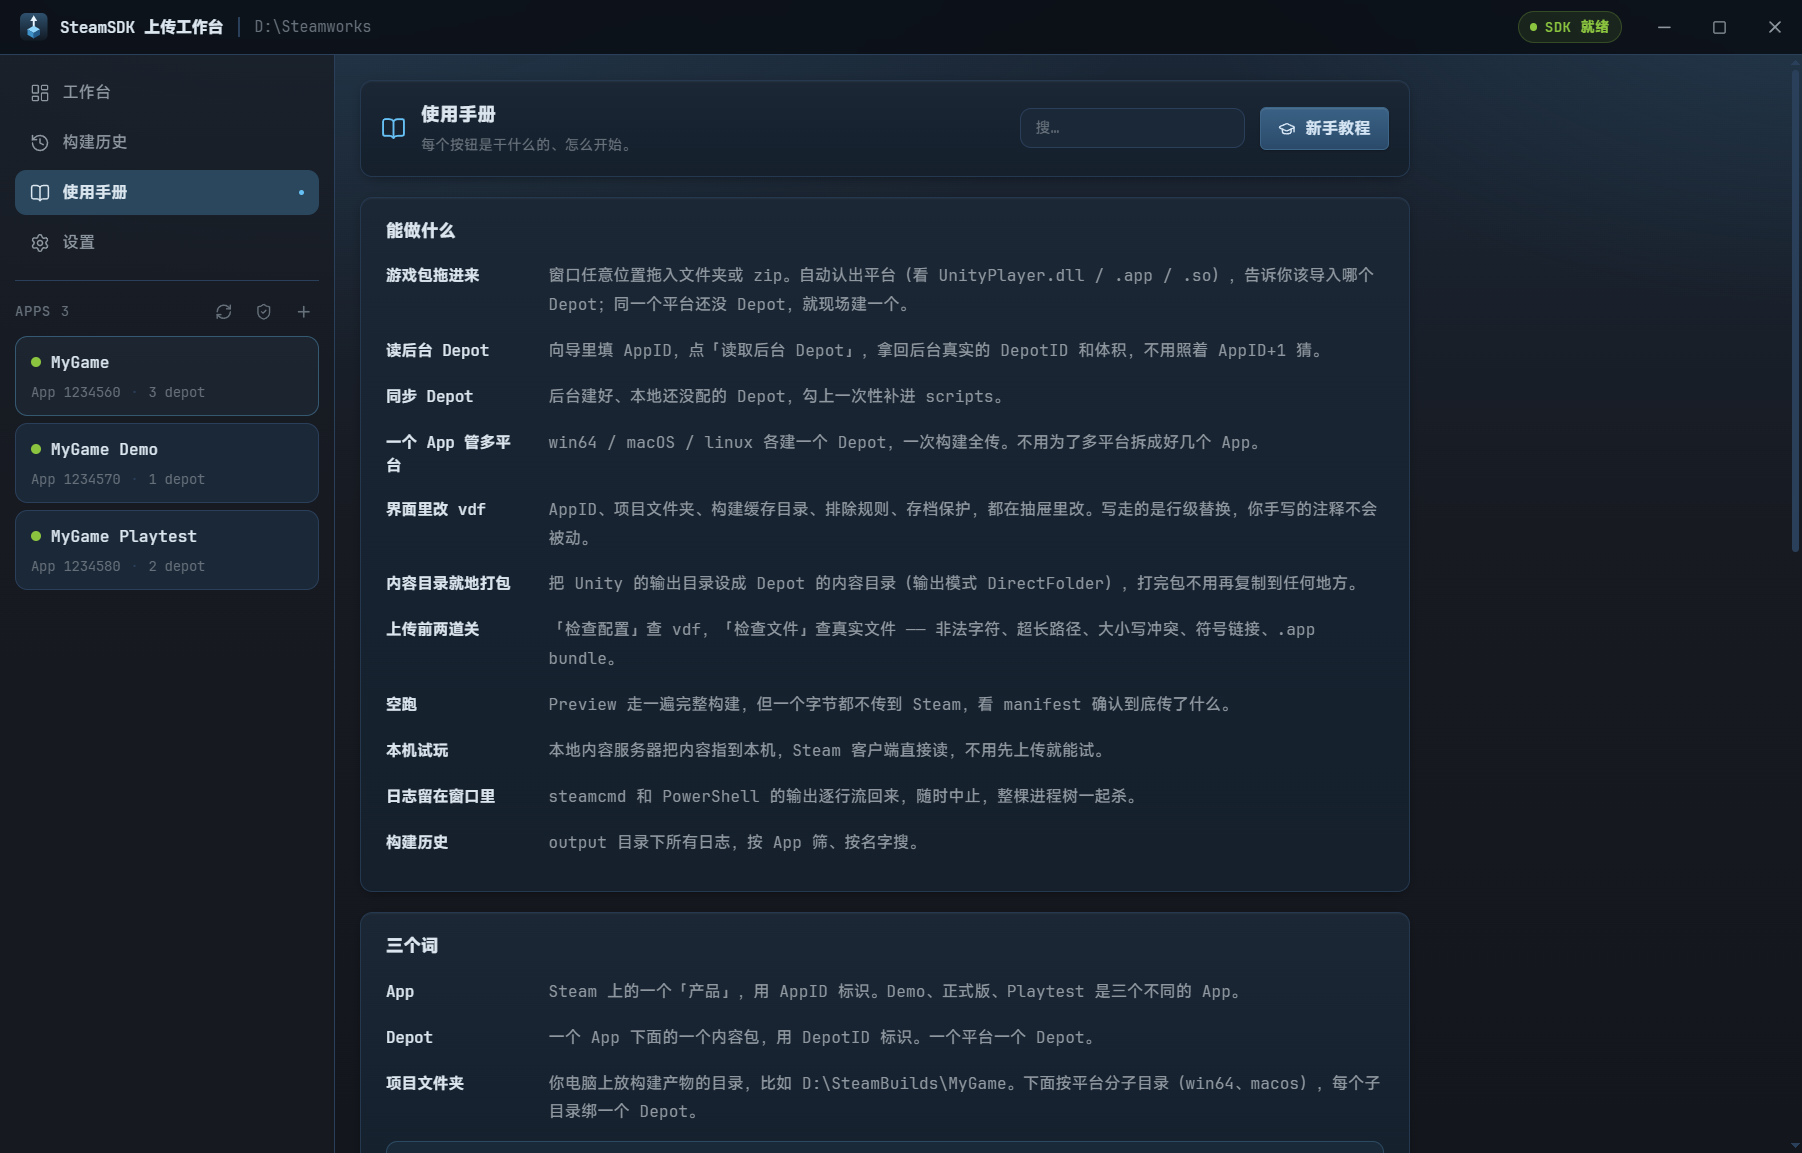
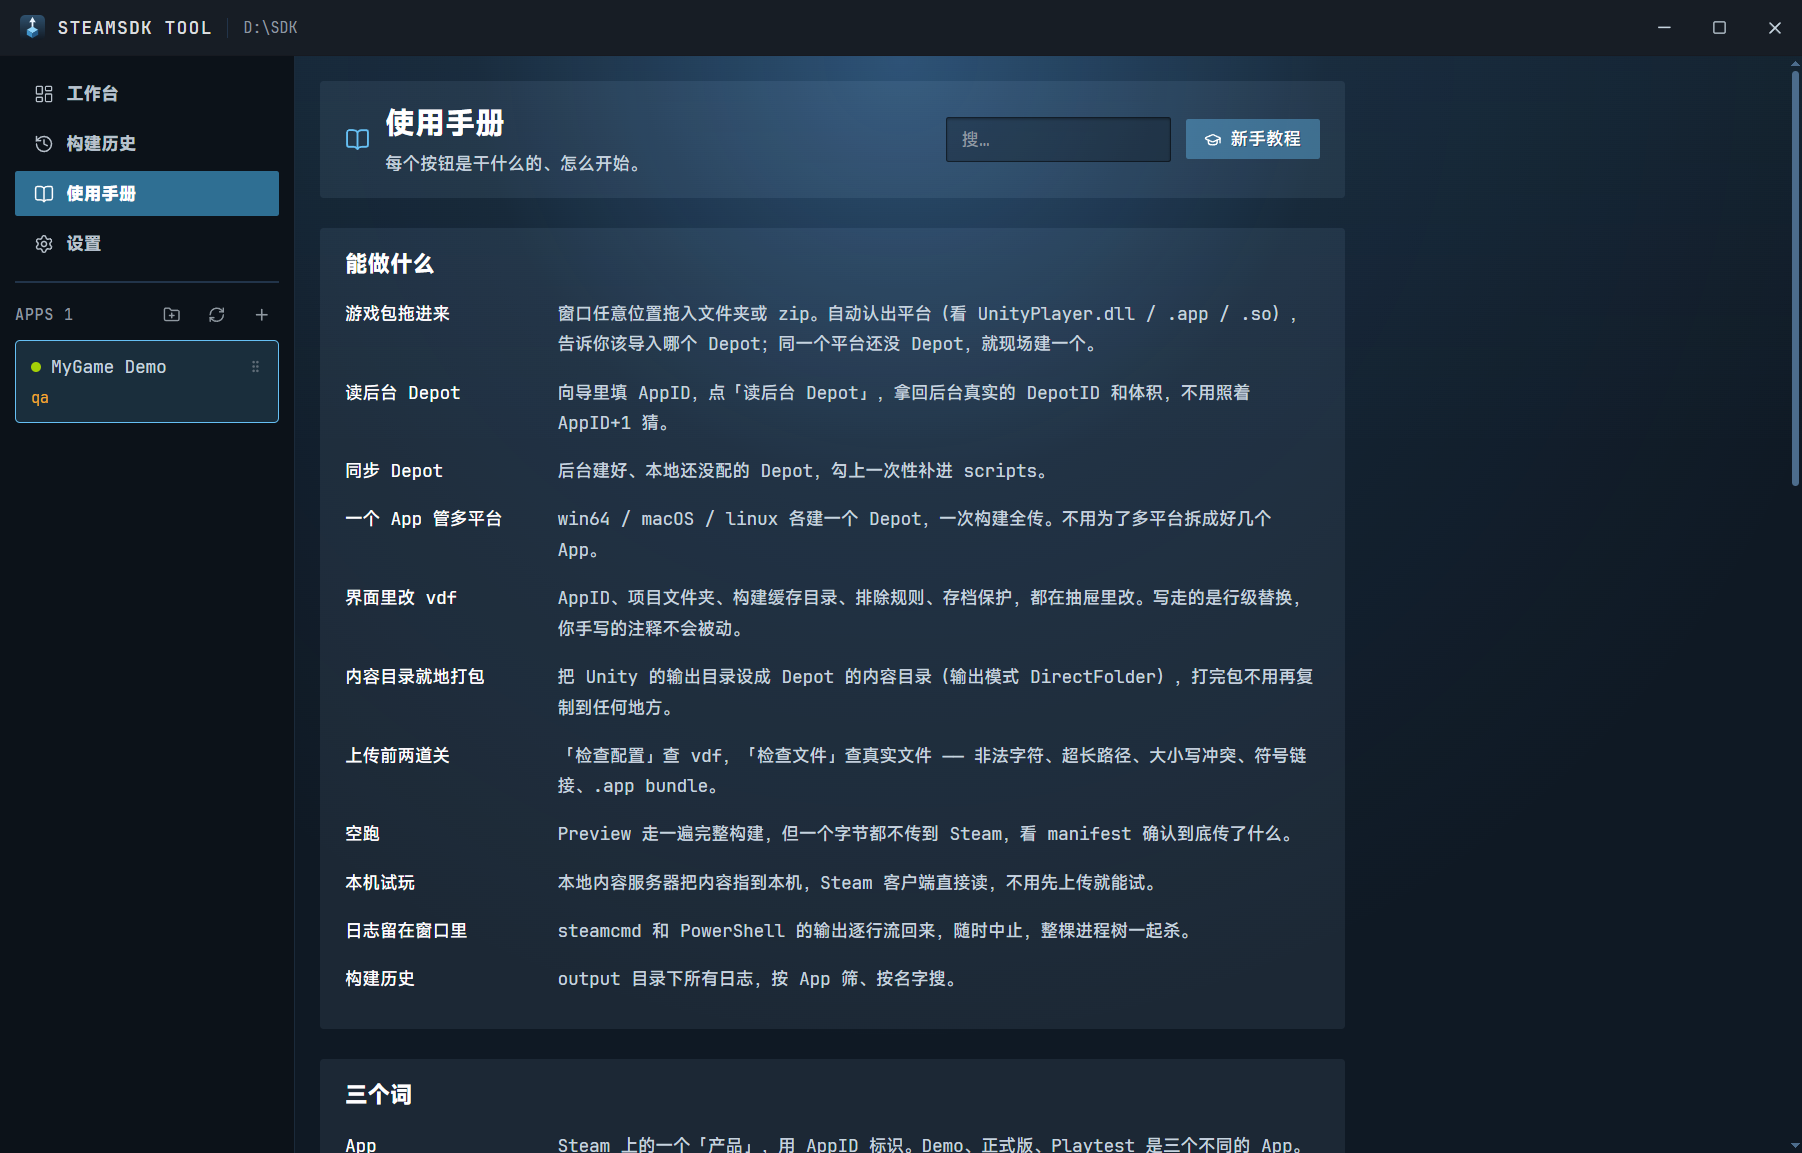
chore: 安装包/快捷方式/界面品牌名统一为 SteamSDK Tool，README 中英截图翻新

diff --git a/src/main/index.js b/src/main/index.js
@@ -102,9 +102,9 @@ import { setLanguage, currentLanguage, systemLocale, t } from './i18n.js'
 
 let mainWindow = null
 
-/** 窗口标题（任务栏 / Alt+Tab 显示的那个），跟着界面语言走 */
+/** 窗口标题（任务栏 / Alt+Tab 显示的那个）。中英两种界面都叫这个名字，所以不走 t() */
 function windowTitle() {
-  return t('SteamSDK 上传工作台')
+  return 'SteamSDK Tool'
 }
 
 /**
@@ -849,7 +849,7 @@ function registerIpc() {
       depotArchByOs: DEPOT_ARCH_BY_OS,
       depotLanguages: DEPOT_LANGUAGES,
       suggestedDepotId: suggestDepotId(appId),
-      suggestedContentRoot: defaultContentRoot(name || '<App名>', platform, s), // i18n-ignore 建议路径的占位符
+      suggestedContentRoot: defaultContentRoot(name || t('<App名>'), platform, s),
       buildsRoot: s.buildsRoot,
       defaultExclusions: defaultExclusionsFor(platform),
       allDefaultExclusions: DEFAULT_EXCLUSIONS

diff --git a/src/renderer/src/main.js b/src/renderer/src/main.js
@@ -1,20 +1,13 @@
-import { createApp, watch } from 'vue'
+import { createApp } from 'vue'
 import App from './App.vue'
 import './style.css'
 import { reveal, stagger } from './motion.js'
-import { lang, t } from './i18n/index.js'
 
 const app = createApp(App)
 app.directive('reveal', reveal)
 app.directive('stagger', stagger)
 app.mount('#app')
 
-// 窗口标题（任务栏 / Alt+Tab）跟着界面语言走。主进程也会设一次，
-// 但页面自己的 <title> 会盖回去，所以这里也盯着。
-watch(
-  lang,
-  () => {
-    document.title = t('SteamSDK 上传工作台')
-  },
-  { immediate: true }
-)
+// 窗口标题两种语言都一样，直接写常量：主进程 createWindow 的 title 与这里保持一致，
+// 页面自己的 <title> 会盖掉主进程那个，所以两边都得是同一个字符串。
+document.title = 'SteamSDK Tool'

diff --git a/src/main/vdf-edit.js b/src/main/vdf-edit.js
@@ -415,7 +415,7 @@ export function renderAppVdf({
   const vdf = `// ============================================================================
 //  ${name || 'App ' + appId}  --  AppID ${appId}
 //
-//  由 SteamSDK 上传工作台生成。内容目录放在 SDK 外面，一份 SDK 可以管所有${/* i18n-ignore */ ''}
+//  由 SteamSDK Tool 生成。内容目录放在 SDK 外面，一份 SDK 可以管所有${/* i18n-ignore */ ''}
 //  App / Depot / 版本，不需要复制 SDK，也不需要复制文件夹。${/* i18n-ignore */ ''}
 //
 //  这个 App 管 ${depots.length} 个 Depot（${depots.map((d) => d.platform || d.id).join(' + ')}）：${/* i18n-ignore */ ''}

diff --git a/src/renderer/index.html b/src/renderer/index.html
@@ -7,7 +7,7 @@
       http-equiv="Content-Security-Policy"
       content="default-src 'self'; script-src 'self'; style-src 'self' 'unsafe-inline'; img-src 'self' data:; font-src 'self' data:"
     />
-    <title>SteamSDK 上传工作台</title><!-- i18n-ignore 首屏兜底标题，跑起来后由 main.js 按语言覆盖 -->
+    <title>SteamSDK Tool</title><!-- i18n-ignore 首屏标题：两种界面都叫这个名字，与主进程 setTitle 保持一致 -->
   </head>
   <body>
     <div id="app"></div>

diff --git a/src/renderer/src/components/OnboardGuide.vue b/src/renderer/src/components/OnboardGuide.vue
@@ -336,7 +336,7 @@ function skip() {
               <path d="M186 152 128 186v50l58-34z" fill="#245c8c" />
             </svg>
             <div>
-              <h2 class="text-title font-semibold m-0">{{ t('SteamSDK 上传工作台') }}</h2>
+              <h2 class="text-title font-semibold m-0">SteamSDK Tool</h2>
               <p class="text-label text-muted mt-1 mb-0">
                 {{ t('一份 SDK 管所有 App / Depot / 版本，不用给每个版本复制一份 SDK。') }}
               </p>

diff --git a/src/renderer/src/components/TitleBar.vue b/src/renderer/src/components/TitleBar.vue
@@ -63,7 +63,7 @@ const win = window.api.win
         <polygon points="70,152 128,186 128,236 70,202" fill="#3f92c9" />
         <polygon points="186,152 128,186 128,236 186,202" fill="#245c8c" />
       </svg>
-      <span class="s-brand whitespace-nowrap">{{ t('SteamSDK 上传工作台') }}</span>
+      <span class="s-brand whitespace-nowrap">SteamSDK Tool</span>
     </div>
 
     <div class="h-4 w-px bg-line" />

diff --git a/src/shared/i18n/en/shell.js b/src/shared/i18n/en/shell.js
@@ -3,8 +3,6 @@
  * 用法见 src/shared/i18n/core.js 顶部。键一律加引号——中文键里常有空格和括号。
  */
 export default {
-  'SteamSDK 上传工作台': 'SteamSDK Upload Workbench',
-
   // —— TitleBar：运行状态 ——
   '检查配置中': 'Checking config',
   'Preview 中': 'Previewing',

diff --git a/README.en.md b/README.en.md
@@ -1,4 +1,4 @@
-# SteamSDK Upload Workbench
+# SteamSDK Tool
 
 A desktop tool for Steam developers: **one SteamSDK install manages every App / Depot / build**, so you don't copy the SDK per version and don't have to memorise steamcmd flags.
 
@@ -10,7 +10,7 @@ The UI follows Steam's own visual language. Vue 3 + Electron, Windows installer.
 
 > The app runs in **English or Chinese** — pick one under **Settings → Language**, or leave it on *Follow system*. Switching takes effect immediately, no restart.
 
-![Workbench](docs/workbench.png)
+![Workbench](docs/en/workbench.png)
 
 ---
 
@@ -29,7 +29,7 @@ This tool folds all of that into one window: **one App = one project folder, wit
 
 ## Quick start
 
-1. Download and run `SteamSDK Tool-x.y.z-setup.exe`;
+1. Download and run `SteamSDK-Tool-x.y.z-setup.exe`;
 2. Follow the three-step guide on first launch: **① confirm the SteamSDK path → ② enter your Steam account → ③ create or pick an App**;
    - Returning users can click **Skip tutorial**; everything lives on the Settings page;
 3. Click **Read backend** — it lists the Depots already configured for this App in Steamworks, and ticking one fills in the real DepotID;
@@ -38,8 +38,8 @@ This tool folds all of that into one window: **one App = one project folder, wit
 
 <table>
 <tr>
-<td width="50%"><img src="docs/onboard.png" alt="First-run guide"><br><sub>Three-step first-run guide — returning users can skip it</sub></td>
-<td width="50%"><img src="docs/wizard.png" alt="New App"><br><sub>New App: reads real backend DepotIDs, platforms are drag-sortable</sub></td>
+<td width="50%"><img src="docs/en/onboard.png" alt="First-run guide"><br><sub>Three-step first-run guide — returning users can skip it</sub></td>
+<td width="50%"><img src="docs/en/wizard.png" alt="New App"><br><sub>New App: reads real backend DepotIDs, platforms are drag-sortable</sub></td>
 </tr>
 </table>
 
@@ -115,11 +115,11 @@ Drag a **folder or zip archive** straight from Explorer into the window:
 
 Zip files are extracted to a temp directory, and a single wrapping folder is unwrapped automatically. Only `.zip` is supported today (`.7z` / `.rar` must be extracted manually first).
 
-![Drag and drop](docs/drop.png)
+![Drag and drop](docs/en/drop.png)
 
 ### Checking the files
 
-The **检查文件 (Check files)** button catches things **检查配置 (Check config) can't see but Steam will choke on**:
+The **Check files** button catches things **Check config** can't see but Steam will choke on:
 
 - Illegal characters in filenames, and over-long paths (relative path > 200 chars, or a single segment > 120);
 - Case collisions (`Readme.txt` next to `README.TXT` — Steam depots are case-sensitive, Windows players get a clash);
@@ -158,11 +158,11 @@ The alternative — parse to objects and re-serialise — wipes them all out. Th
 
 ### There's a manual inside the app
 
-The sidebar's **使用手册** entry is built in and works offline: what each toolbar button actually checks, the three core concepts, what not to ship, and how branches work. It has a search box that filters sections.
+The sidebar's **Manual** entry is built in and works offline: what each toolbar button actually checks, the three core concepts, what not to ship, and how branches work. It has a search box that filters sections.
 
-![Manual](docs/manual.png)
+![Manual](docs/en/manual.png)
 
-For first-time setup, click **新手教程** in the manual header to walk through it again (find the SDK → enter your account).
+For first-time setup, click **Quick start** in the manual header to walk through it again (find the SDK → enter your account).
 
 ### Spaces in app names
 
@@ -221,7 +221,7 @@ $env:ELECTRON_MIRROR='https://npmmirror.com/mirrors/electron/'
 pnpm dist
 # 3. publish — the tag MUST be vX.Y.Z, that's what the updater looks for
 gh release create v0.2.0 --title "v0.2.0" --notes-file NOTES.md `
-  "release\SteamSDK Tool-0.2.0-setup.exe" "release\SteamSDK Tool-0.2.0-portable.exe"
+  "release\SteamSDK-Tool-0.2.0-setup.exe" "release\SteamSDK-Tool-0.2.0-portable.exe"
 ```
 
 > Upload both. If only the setup is published, portable users get an installer — downloadable, but the wrong thing.
